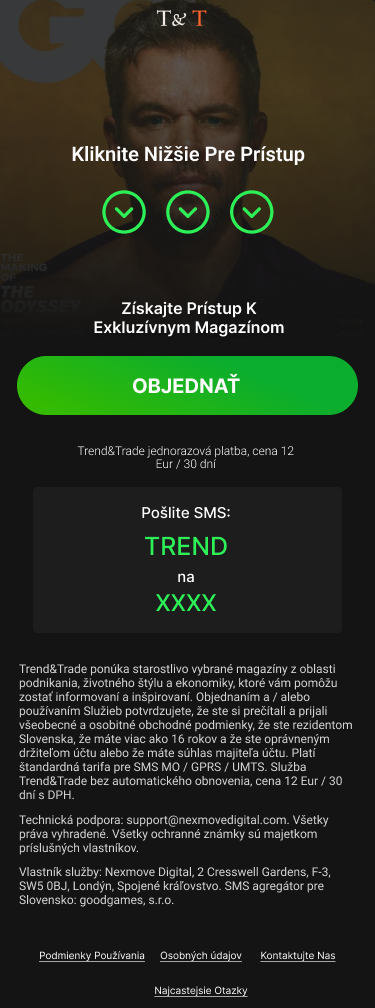
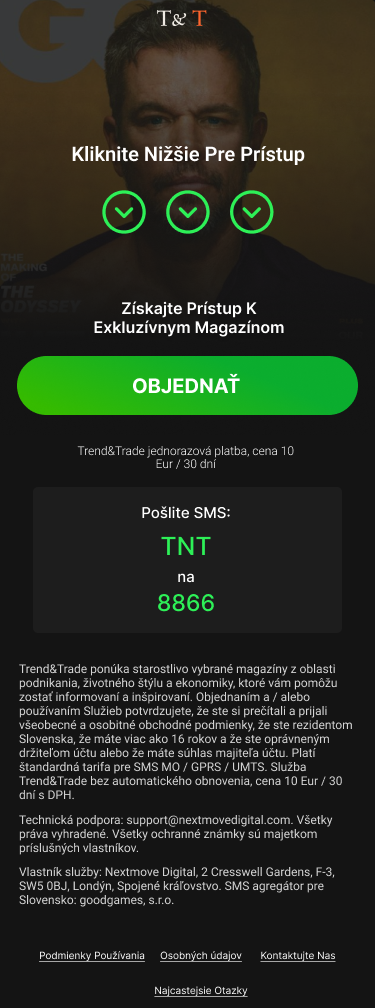
Add files via upload

diff --git a/legal.html b/legal.html
@@ -25,30 +25,30 @@
         <h1>Podmienky používania</h1>
         <p>Trend&amp;Trade ponúka starostlivo vybrané magazíny z oblasti podnikania, životného štýlu a ekonomiky, ktoré vám pomôžu zostať informovaní a inšpirovaní.</p>
         <p>Objednaním alebo používaním služby potvrdzujete, že ste si prečítali a prijali všeobecné a osobitné obchodné podmienky, že ste rezident Slovenska, že máte viac ako 16 rokov a že ste oprávneným držiteľom účtu alebo že máte súhlas majiteľa účtu.</p>
-        <p>Služba Trend&amp;Trade nemá automatické obnovenie. Cena prístupu je 12 EUR na 30 dní s DPH.</p>
+        <p>Služba Trend&amp;Trade nemá automatické obnovenie. Cena prístupu je 10 EUR na 30 dní s DPH.</p>
       </section>
 
       <section id="privacy">
         <h2>Osobné údaje</h2>
         <p>Ak máte otázky týkajúce sa spracúvania osobných údajov v súvislosti so službou, kontaktujte technickú podporu.</p>
-        <p><a href="mailto:support@nexmovedigital.com">support@nexmovedigital.com</a></p>
+        <p><a href="mailto:support@nextmovedigital.com">support@nextmovedigital.com</a></p>
       </section>
 
       <section id="contact">
         <h2>Kontaktujte nás</h2>
-        <p><strong>Technická podpora:</strong> <a href="mailto:support@nexmovedigital.com">support@nexmovedigital.com</a></p>
-        <p><strong>Vlastník služby:</strong> Nexmove Digital, 2 Cresswell Gardens, F-3, SW5 0BJ, Londýn, Spojené kráľovstvo.</p>
+        <p><strong>Technická podpora:</strong> <a href="mailto:support@nextmovedigital.com">support@nextmovedigital.com</a></p>
+        <p><strong>Vlastník služby:</strong> Nextmove Digital, 2 Cresswell Gardens, F-3, SW5 0BJ, Londýn, Spojené kráľovstvo.</p>
         <p><strong>SMS agregátor pre Slovensko:</strong> goodgames, s.r.o.</p>
       </section>
 
       <section id="faq">
         <h2>Najčastejšie otázky</h2>
         <h3>Koľko stojí prístup?</h3>
-        <p>Cena prístupu je 12 EUR na 30 dní s DPH.</p>
+        <p>Cena prístupu je 10 EUR na 30 dní s DPH.</p>
         <h3>Obnoví sa služba automaticky?</h3>
         <p>Nie. Služba Trend&amp;Trade nemá automatické obnovenie.</p>
         <h3>Kde získam pomoc?</h3>
-        <p>Napíšte na <a href="mailto:support@nexmovedigital.com">support@nexmovedigital.com</a>.</p>
+        <p>Napíšte na <a href="mailto:support@nextmovedigital.com">support@nextmovedigital.com</a>.</p>
       </section>
     </main>
   </body>

diff --git a/terms.html b/terms.html
@@ -24,7 +24,7 @@
         <h2>1. Služba</h2>
         <p>Trend&amp;Trade poskytuje digitálny prístup k magazínom z oblasti podnikania a životného štýlu.</p>
         <h2>2. Prístup a cena</h2>
-        <p>Presná cena a dĺžka prístupu sú uvedené pred objednávkou. Pri ponuke zobrazenej na slovenskej landing page je cena 12 EUR s DPH za 30 dní; služba sa automaticky neobnovuje.</p>
+        <p>Presná cena a dĺžka prístupu sú uvedené pred objednávkou. Pri ponuke zobrazenej na slovenskej landing page je cena 10 EUR s DPH za 30 dní; služba sa automaticky neobnovuje.</p>
         <h2>3. Platba a používanie</h2>
         <p>Poplatok môže byť účtovaný prostredníctvom mobilného operátora. Používateľ musí mať oprávnenie používať danú mobilnú linku a potrebné zariadenie s pripojením na internet.</p>
         <h2>4. Zodpovednosť</h2>
@@ -36,7 +36,7 @@
       <section id="privacy">
         <h2>Osobné údaje</h2>
         <p>Na poskytnutie služby môžu byť spracúvané údaje potrebné na spracovanie platby, poskytovanie prístupu a zákaznícku podporu, napríklad mobilné číslo, informácie o zariadení alebo sieti a údaje o platbe.</p>
-        <p>Osobné údaje sa nepoužívajú na predaj tretím stranám. Žiadosť o prístup, opravu alebo ďalšie informácie môžete poslať na <a href="mailto:support@trendtrade.net">support@trendtrade.net</a>.</p>
+        <p>Osobné údaje sa nepoužívajú na predaj tretím stranám. Žiadosť o prístup, opravu alebo ďalšie informácie môžete poslať na <a href="mailto:support@nextmovedigital.com">support@nextmovedigital.com</a>.</p>
       </section>
 
       <section>

diff --git a/faq.html b/faq.html
@@ -25,13 +25,13 @@
         <h3>Ako funguje prístup?</h3>
         <p>Po potvrdení objednávky získate prístup k platforme. Konkrétne podmienky sú vždy uvedené pred objednaním.</p>
         <h3>Koľko stojí služba?</h3>
-        <p>Pre zobrazenú slovenskú ponuku stojí prístup 12 EUR s DPH na 30 dní.</p>
+        <p>Pre zobrazenú slovenskú ponuku stojí prístup 10 EUR s DPH na 30 dní.</p>
         <h3>Obnoví sa služba automaticky?</h3>
         <p>Nie. Zobrazená slovenská ponuka nemá automatické obnovenie.</p>
         <h3>Sú moje údaje v bezpečí?</h3>
         <p>Údaje sa spracúvajú iba v rozsahu potrebnom na poskytovanie služby, platbu a podporu. Viac nájdete v časti <a href="terms.html#privacy">Osobné údaje</a>.</p>
         <h3>Kde získam pomoc?</h3>
-        <p>Kontaktujte nás na <a href="mailto:support@trendtrade.net">support@trendtrade.net</a>.</p>
+        <p>Kontaktujte nás na <a href="mailto:support@nextmovedigital.com">support@nextmovedigital.com</a>.</p>
       </section>
       </article>
       <div class="cookie-notice">Na zlepšenie vášho používania webu používame súbory cookie. Pokračovaním súhlasíte s našimi pravidlami pre súbory cookie.<button type="button" aria-label="Zavrieť upozornenie na cookies">×</button></div>

diff --git a/contact.html b/contact.html
@@ -19,7 +19,7 @@
       <article class="content"><section>
         <h2>Kontaktujte nás</h2>
         <p>Pre technickú podporu a otázky týkajúce sa služby nám napíšte.</p>
-        <p><a class="email" href="mailto:support@trendtrade.net">support@trendtrade.net</a></p>
+        <p><a class="email" href="mailto:support@nextmovedigital.com">support@nextmovedigital.com</a></p>
         <p>NEXT MOVE DIGITAL LTD<br />Flat 3, 2 Cresswell Gardens, London SW5 0BJ, Spojené kráľovstvo</p>
       </section></article>
       <div class="cookie-notice">Na zlepšenie vášho používania webu používame súbory cookie. Pokračovaním súhlasíte s našimi pravidlami pre súbory cookie.<button type="button" aria-label="Zavrieť upozornenie na cookies">×</button></div>

diff --git a/index.html b/index.html
@@ -10,7 +10,7 @@
   </head>
   <body>
     <main class="landing" aria-label="Trend & Trade – objednávka prístupu">
-      <img class="landing-art" src="Slovakia%20Landing.png" alt="Trend & Trade. Získajte prístup k exkluzívnym magazínom za 12 EUR na 30 dní." />
+      <img class="landing-art" src="Slovakia%20Landing.png" alt="Trend & Trade. Získajte prístup k exkluzívnym magazínom za 10 EUR na 30 dní." />
 
       <a class="order-hotspot" href="homepage.html" aria-label="Objednať – ukážka prístupu"></a>
       <a class="terms-hotspot" href="terms.html" aria-label="Podmienky používania"></a>
